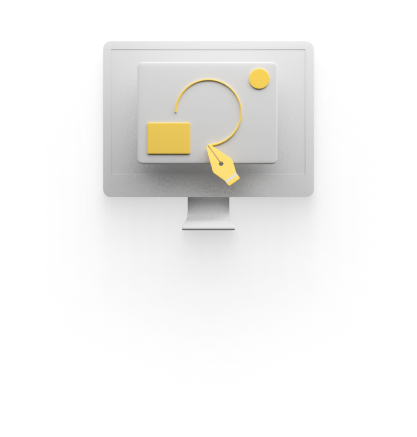
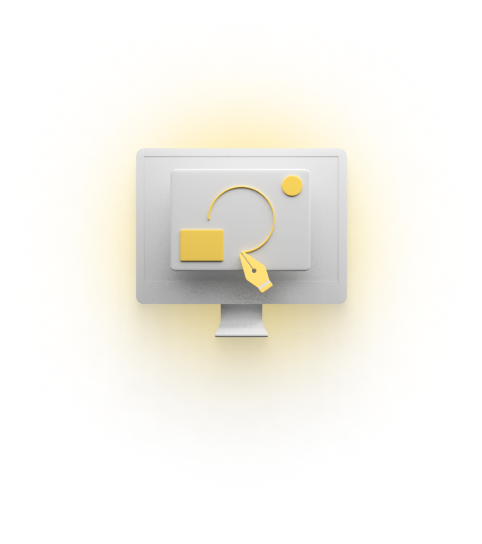
merapihkan card di sesi services

Changed region(s): [[0.2182, 0.0892, 0.7794, 0.714]]

diff --git a/assets/css/style.css b/assets/css/style.css
@@ -155,11 +155,18 @@ small, .text_small {font-size: 0.8rem;}
 /* End of Jumbotron */
 
 /* Services */
+#services .card {
+    border: none;
+}
+
 #services .card-body .text {
     margin-top: -100px;
+    text-align: center;
 }
 #services .card img{
+    margin-top: -80px;
     width: 100%;
+    height: 50% !important;
 }
 /* End of Services */
 
@@ -343,12 +350,8 @@ footer {
     /* End of Jumbotron */
 
     /* Services */
-    #services .card {
-        min-height: 500px;
-    }
-
     #services .card-body .text {
-        margin-top: -100px;
+        margin-top: -80px;
     }
 
     #services .card img{
